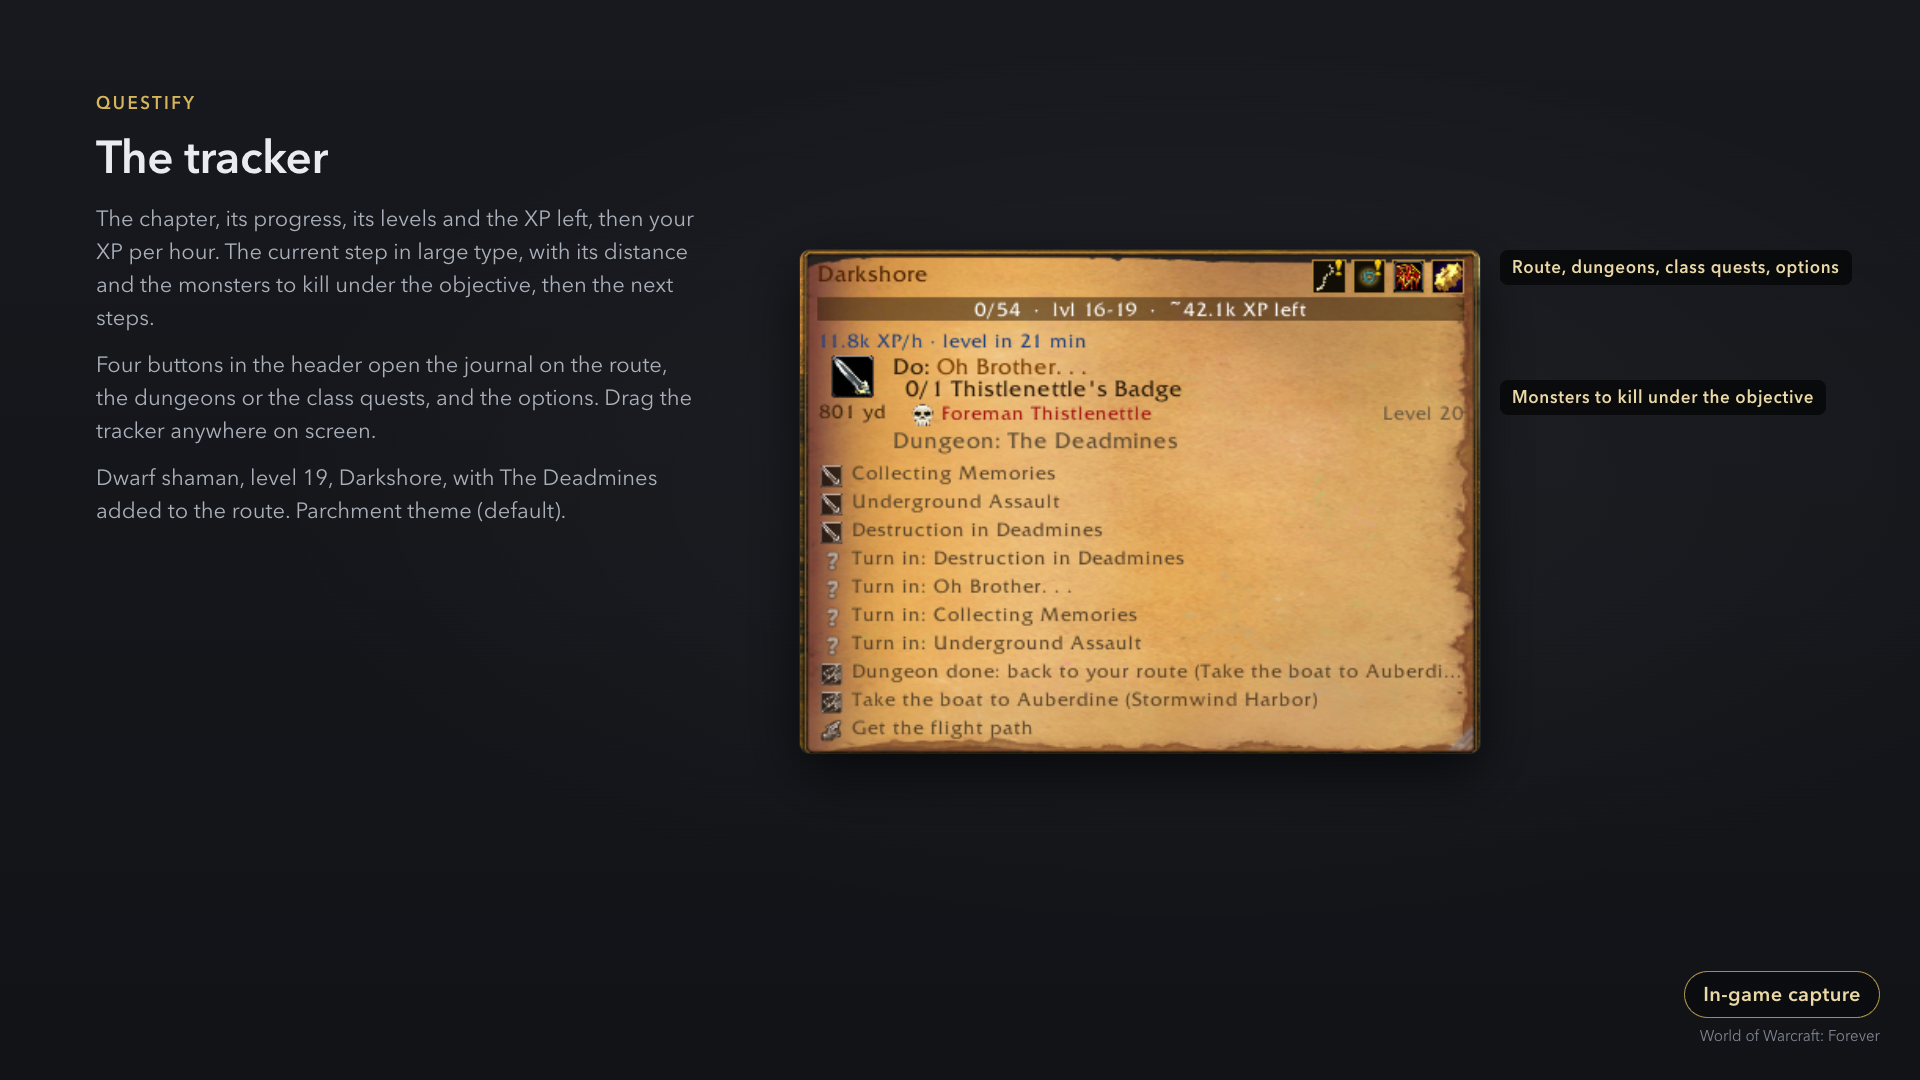
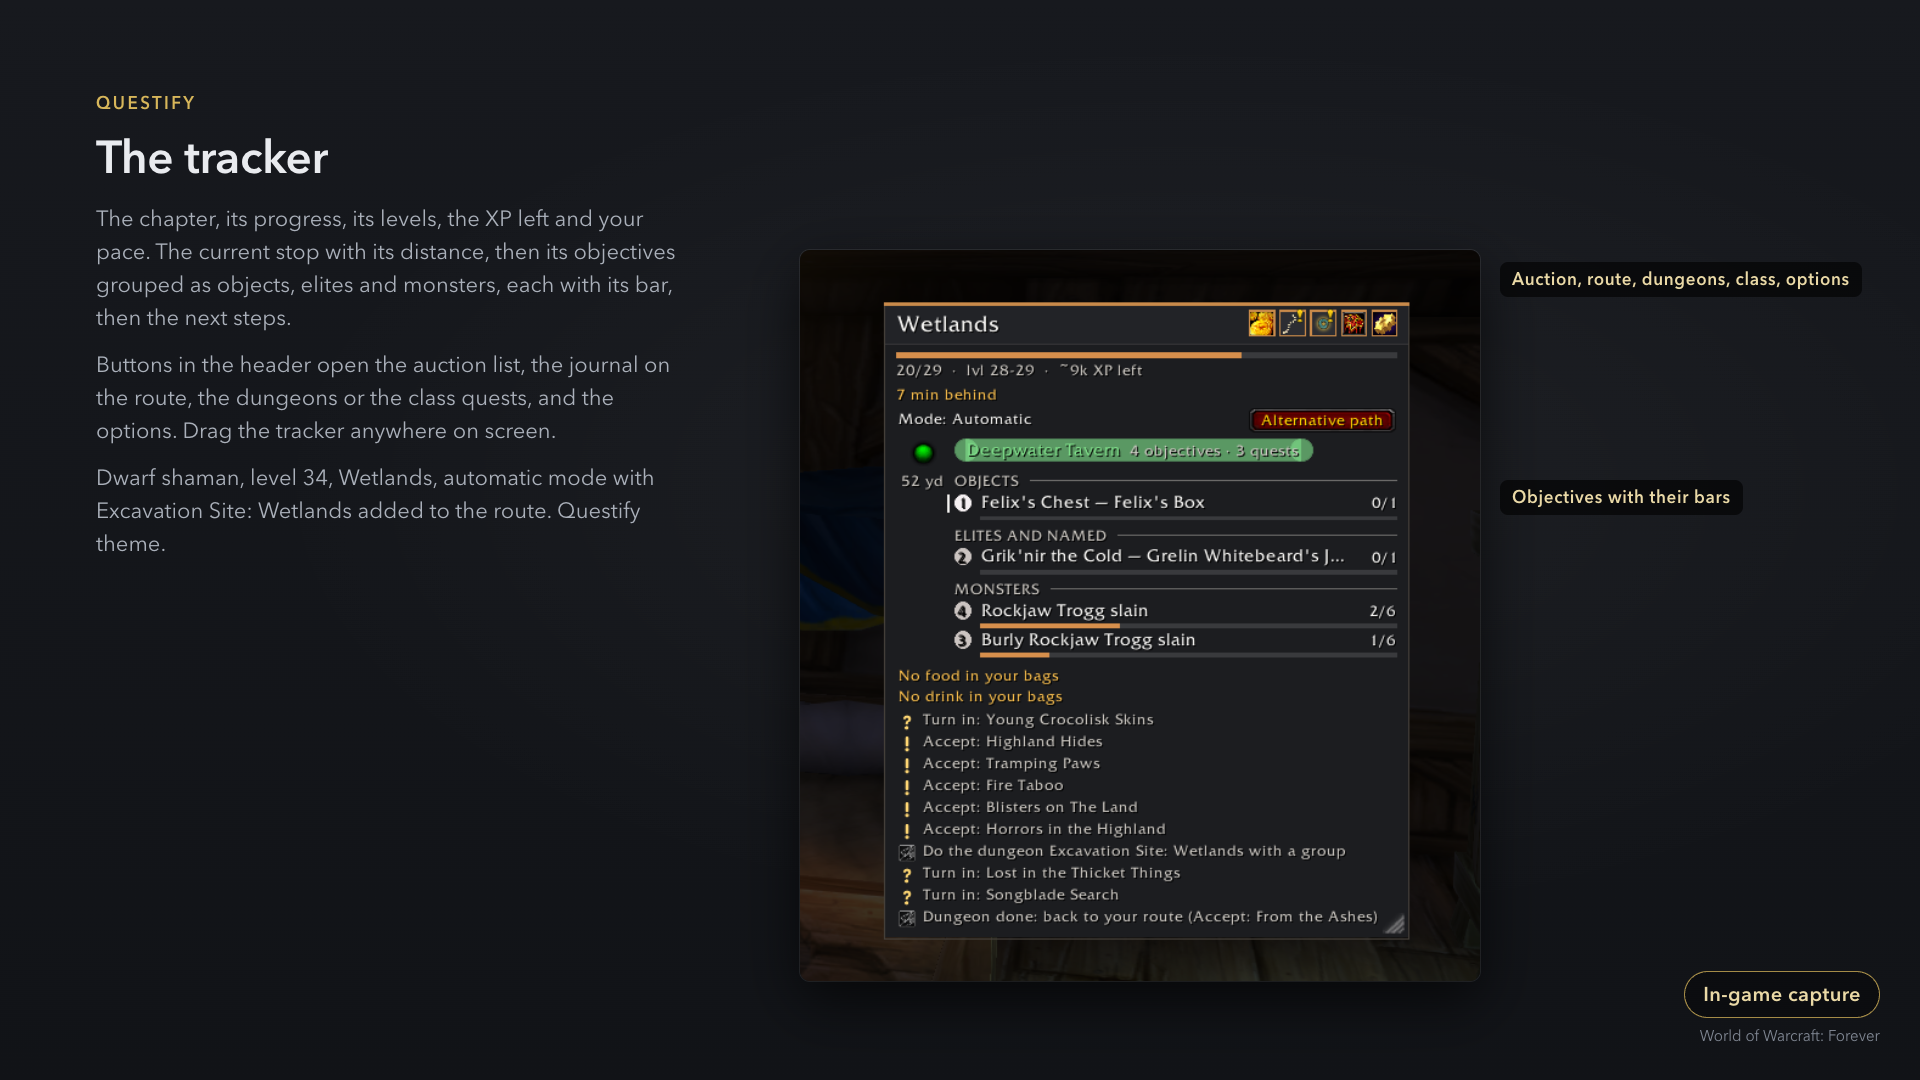
docs(curseforge): image 01 du suivi refaite pour la v1
Capture en jeu (nain 34, Les Paluns, mode automatique), texte et repères à jour.
Plan des captures : choisir un donjon qui a encore des quêtes pour l'image 08c.

diff --git a/docs/media/apercus/src/en/01-tracker.html b/docs/media/apercus/src/en/01-tracker.html
@@ -18,13 +18,13 @@
   <div class="cap" style="width:600px">
     <div class="brand">Questify</div>
     <h1>The tracker</h1>
-    <p>The chapter, its progress, its levels and the XP left, then your XP per hour. The current step in large type, with its distance and the monsters to kill under the objective, then the next steps.</p>
-    <p>Four buttons in the header open the journal on the route, the dungeons or the class quests, and the options. Drag the tracker anywhere on screen.</p>
-    <p>Dwarf shaman, level 19, Darkshore, with The Deadmines added to the route. Parchment theme (default).</p>
+    <p>The chapter, its progress, its levels, the XP left and your pace. The current stop with its distance, then its objectives grouped as objects, elites and monsters, each with its bar, then the next steps.</p>
+    <p>Buttons in the header open the auction list, the journal on the route, the dungeons or the class quests, and the options. Drag the tracker anywhere on screen.</p>
+    <p>Dwarf shaman, level 34, Wetlands, automatic mode with Excavation Site: Wetlands added to the route. Questify theme.</p>
   </div>
   <img class="shot" style="left:800px; top:250px; width:680px" src="captures/01-tracker.png" alt="">
-  <div class="lbl" style="left:1500px; top:250px">Route, dungeons, class quests, options</div>
-  <div class="lbl" style="left:1500px; top:380px">Monsters to kill under the objective</div>
+  <div class="lbl" style="left:1500px; top:262px">Auction, route, dungeons, class, options</div>
+  <div class="lbl" style="left:1500px; top:480px">Objectives with their bars</div>
   <div class="badge"><div class="t">In-game capture</div><div class="s">World of Warcraft: Forever</div></div>
 </div>
 </body>

diff --git a/docs/media/CAPTURES-V1.md b/docs/media/CAPTURES-V1.md
@@ -24,7 +24,7 @@ l'insère dans le gabarit (`docs/media/apercus/src/en/<nom>.html`) puis je rends
 | 3 | `20b-navigation-map.png` | Le trajet sur la carte du monde : marche, vol ou bateau jusqu'à l'étape. | Même étape, carte du monde ouverte (M) ; idéalement une étape qui demande un vol. |
 | 4 | `16-route-choice.png` | « Change route » : le chapitre en cours et les chapitres du niveau, carte conseillée. | Journal (`/qf`), bouton « Change route », personnage de niveau 25-35. |
 | 5 | `08-journal-route.png` | Le journal, onglet Route (vue Manuel) : chapitres par niveau, étapes, onglets en haut. | `/qf`, onglet Route, vue Manual. |
-| 6 | `08c-journal-dungeons.png` | Onglet Donjons revu : itinéraire de prise depuis ta position, quêtes par arrêt, boutons « i » et carte. | `/qf`, onglet Dungeons, un donjon de ton niveau sélectionné ; ouvrir un « i ». |
+| 6 | `08c-journal-dungeons.png` | Onglet Donjons revu : itinéraire de prise depuis ta position, quêtes par arrêt, boutons « i » et carte. | `/qf`, onglet Dungeons, un donjon **avec des quêtes à faire** (pas un donjon déjà vidé comme Deadmines) ; ouvrir un « i ». Nain 34 : Gnomeregan (quêtes à Forgefer et Dun Morogh) ou Scarlet Monastery. Personnage horde 13-18 : Ragefire Chasm. L'onglet ne liste que les donjons de la faction du personnage. |
 | 7 | `21-class-talents.png` | Options > Class > Talents : spés, « My points / My choice », arbre, point suivant. | `/qf options`, section Class, onglet Talents. |
 | 8 | `22-class-macros.png` | Options > Class > Macros : filtres, cartes de macro, bouton Create. | Même section, onglet Macros. |
 | 9 | `23-trainer.png` | Chez l'entraîneur de classe : sorts à apprendre avec le prix, puis l'offre de remplacer les anciens rangs. | Parler à ton entraîneur de classe avec des sorts à apprendre. |
